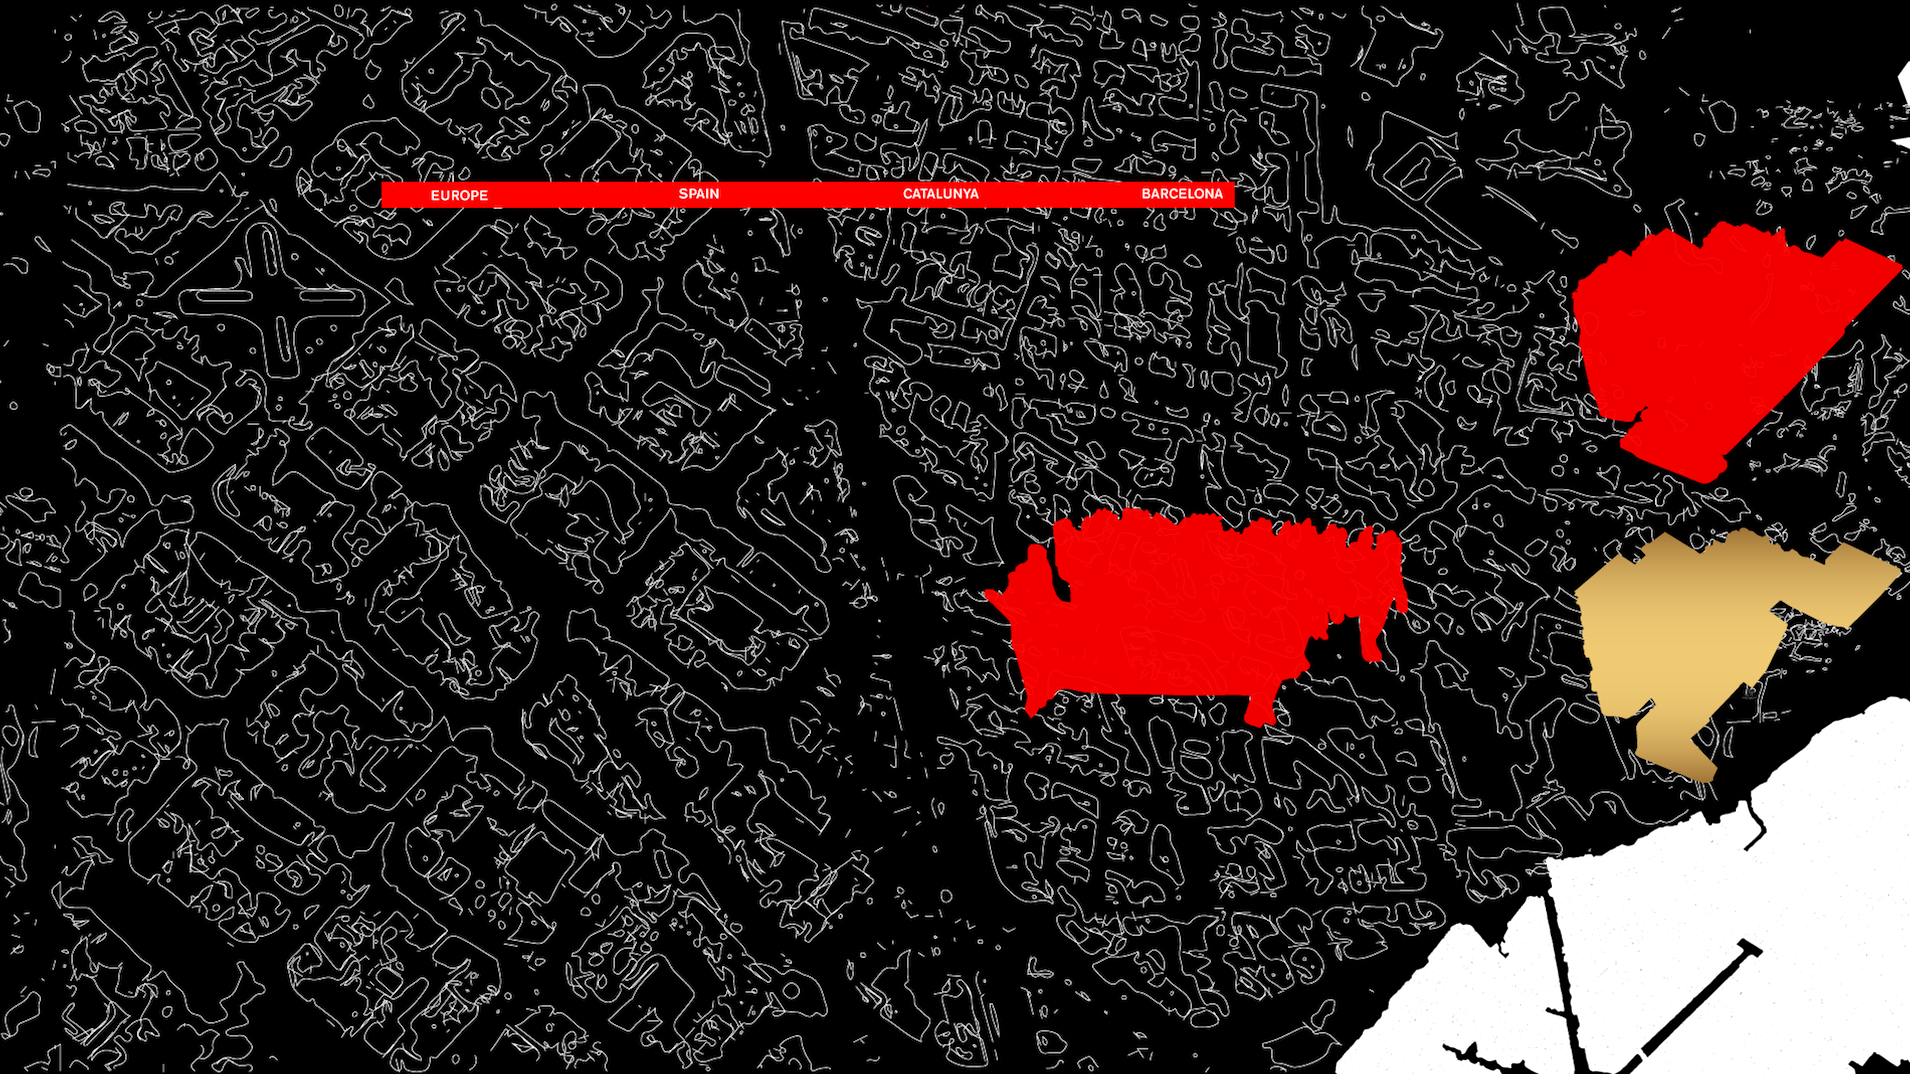
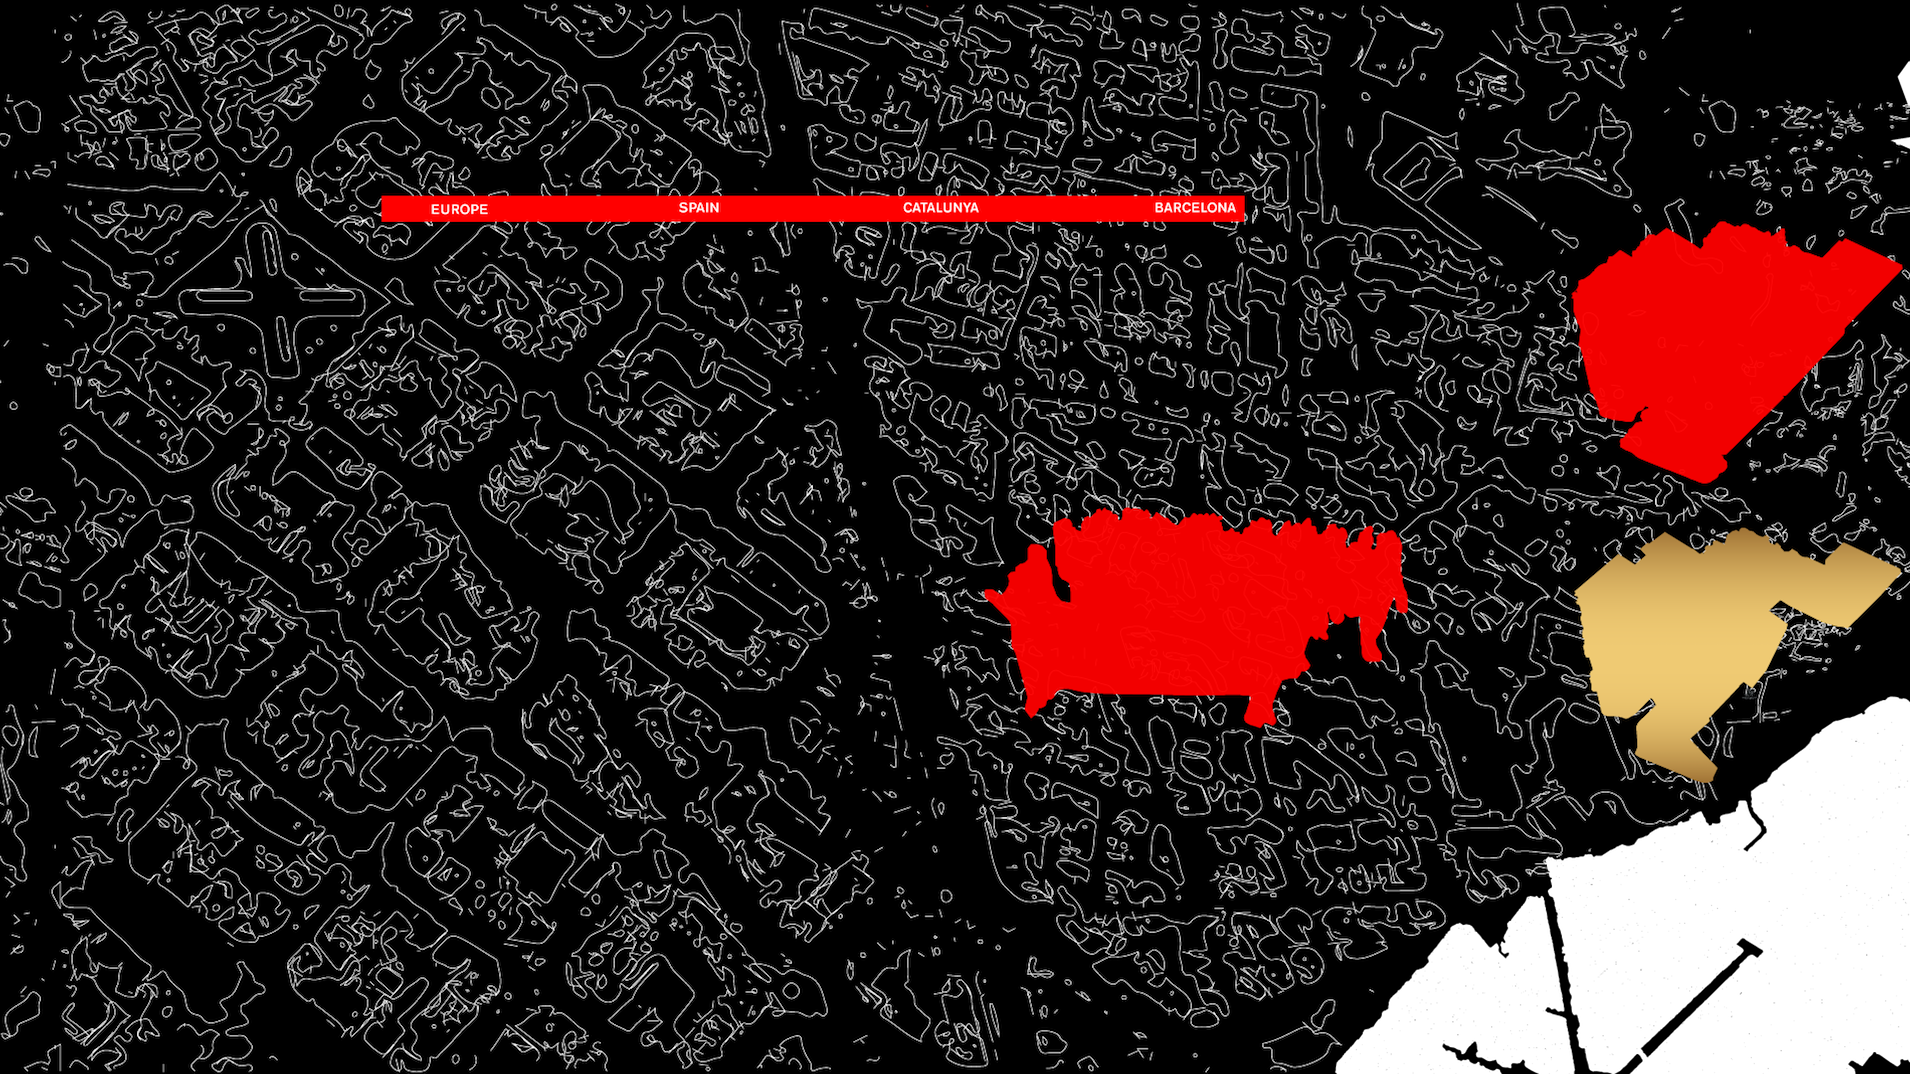
Adjusting positioning, backgound

Changed region(s): [[0.1853, 0.1536, 0.6487, 0.2151]]

diff --git a/src/ofApp.cpp b/src/ofApp.cpp
@@ -34,22 +34,22 @@ void ofApp::setupAnimations(){
 	 */
 	vector<std::array<glm::vec2, 2>> pts;
 	// Upper Building Dashed Lines
-	pts.push_back(array<glm::vec2, 2> {{glm::vec2(1615, 1025), glm::vec2(1615, 400)}});
+	pts.push_back(array<glm::vec2, 2> {{glm::vec2(1615, 1025), glm::vec2(1615, 430)}});
 	buildingTopDashedLines.push_back(DashedLine(pts, 2.0, red, 250, false));
 	pts.clear();
-	pts.push_back(array<glm::vec2, 2> {{glm::vec2(1670, 1069), glm::vec2(1670, 444)}});
+	pts.push_back(array<glm::vec2, 2> {{glm::vec2(1670, 1069), glm::vec2(1670, 474)}});
 	buildingTopDashedLines.push_back(DashedLine(pts, 2.0, red, 250, false));
 	pts.clear();
-	pts.push_back(array<glm::vec2, 2> {{glm::vec2(1725, 1071), glm::vec2(1725, 446)}});
+	pts.push_back(array<glm::vec2, 2> {{glm::vec2(1725, 1071), glm::vec2(1725, 476)}});
 	buildingTopDashedLines.push_back(DashedLine(pts, 2.0, red, 250, false));
 	pts.clear();
-	pts.push_back(array<glm::vec2, 2> {{glm::vec2(1780, 1000), glm::vec2(1780, 375)}});
+	pts.push_back(array<glm::vec2, 2> {{glm::vec2(1780, 1000), glm::vec2(1780, 405)}});
 	buildingTopDashedLines.push_back(DashedLine(pts, 2.0, red, 250, false));
 	pts.clear();
-	pts.push_back(array<glm::vec2, 2> {{glm::vec2(1835, 945), glm::vec2(1835, 320)}});
+	pts.push_back(array<glm::vec2, 2> {{glm::vec2(1835, 945), glm::vec2(1835, 350)}});
 	buildingTopDashedLines.push_back(DashedLine(pts, 2.0, red, 250, false));
 	pts.clear();
-	pts.push_back(array<glm::vec2, 2> {{glm::vec2(1890, 881), glm::vec2(1890, 256)}});
+	pts.push_back(array<glm::vec2, 2> {{glm::vec2(1890, 881), glm::vec2(1890, 286)}});
 	buildingTopDashedLines.push_back(DashedLine(pts, 2.0, red, 250, false));
 	pts.clear();
 	// The dashed line around the companies
@@ -87,7 +87,7 @@ void ofApp::setupAnimations(){
 	);
 	peopleAnimation = ImageAnimation(
 		people,
-		glm::vec2(fixedWidth/2.0 + 254, fixedHeight/2.0 + 55),
+		glm::vec2(fixedWidth/2.0 + 229, fixedHeight/2.0 + 65),
 		glm::vec2(430, 223),
 		250
 	);
@@ -97,8 +97,8 @@ void ofApp::setupAnimations(){
 	buildingTopMovement = ImageMovement(
 		buildingTop,
 		glm::vec2(338, 268),
-		glm::vec2(1737, 945),
-		glm::vec2(1737, 320),
+		glm::vec2(1745, 975),
+		glm::vec2(1745, 350),
 		250
 	);
 	/**
@@ -263,7 +263,7 @@ void ofApp::drawBackground(){
 	ofPushStyle();
 	ofBackground(0);
 	background.draw(0, 0, fixedWidth, fixedHeight);
-	buildingBottom.draw(1570, 528, 333, 260);
+	buildingBottom.draw(1579, 528, 333, 260);
 	ofPopStyle();
 }
 
@@ -345,7 +345,7 @@ void ofApp::checkShouldRunAnimations(int index){
 			shouldRunOne = true;
 		}
 	} else if (index == 3) { // Top building
-		if (shouldRunAnimation[0]) {
+		if (shouldRunAnimation[2]) {
 			// Text animation
 			shouldRunOne = true;
 		}
